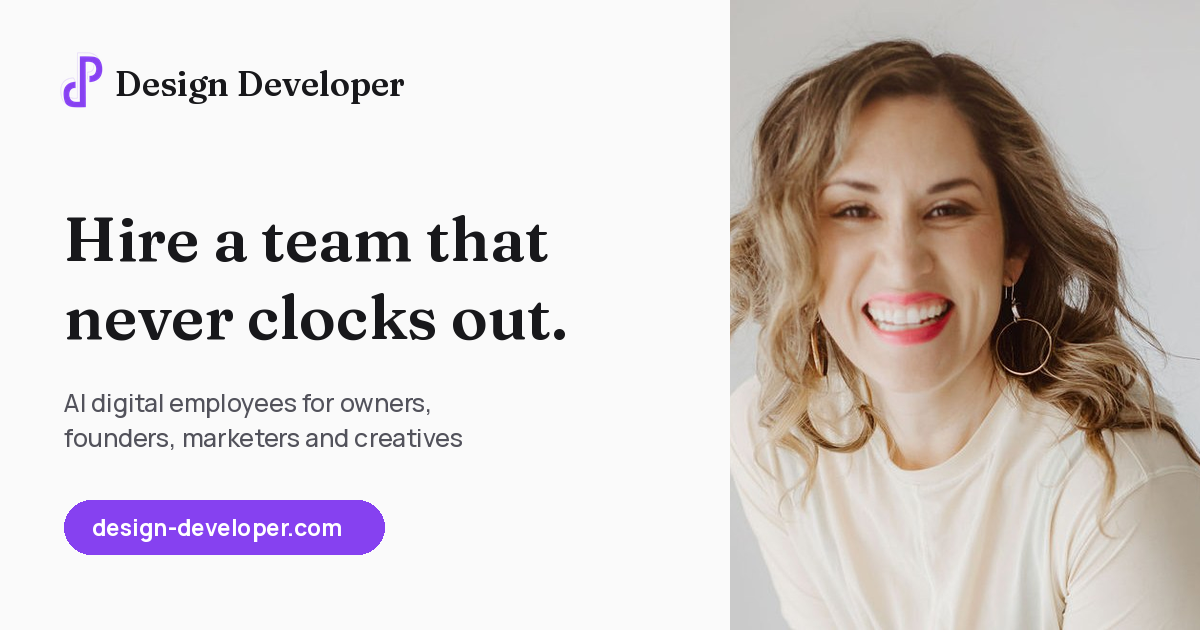
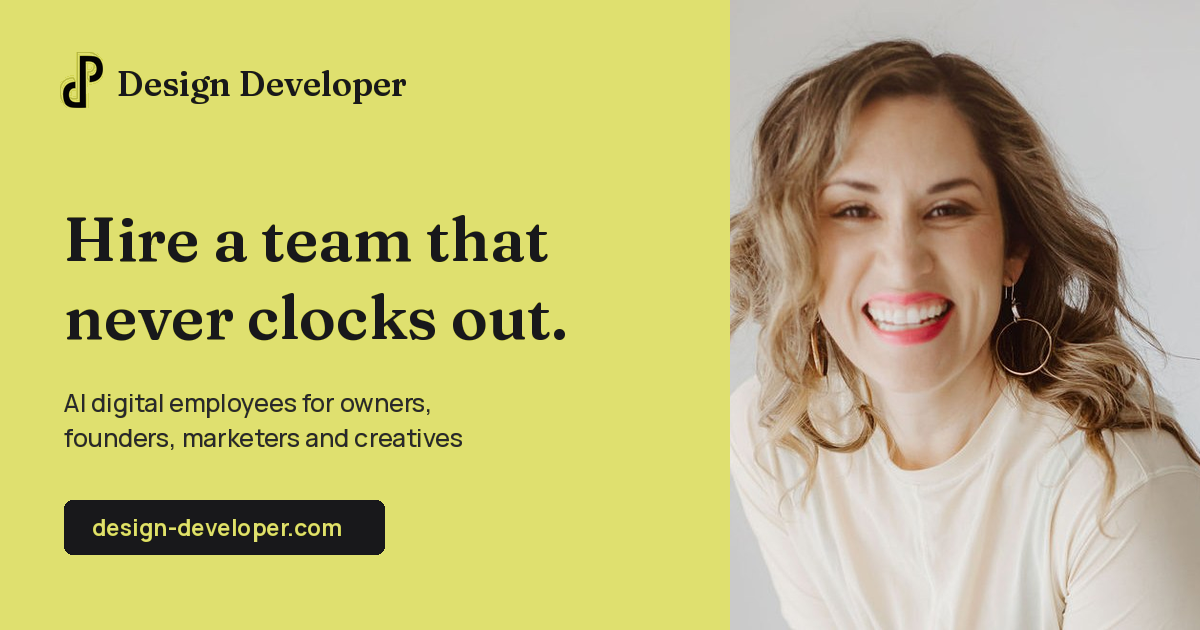
Add files via upload

diff --git a/design-developer/app/partners/page.tsx b/design-developer/app/partners/page.tsx
@@ -1,0 +1,74 @@
+import type { Metadata } from "next";
+
+import { Button } from "@/components/ui/button";
+import { CtaBand } from "@/components/site/cta-band";
+import { PageHeader } from "@/components/site/page-header";
+import { PageShell } from "@/components/site/page-shell";
+import { Container, SectionTitle } from "@/components/site/shared";
+import { pages, partners, site } from "@/lib/content";
+
+const p = pages.partners;
+export const metadata: Metadata = { title: p.title, description: p.description, alternates: { canonical: p.path }, openGraph: { title: p.title, description: p.description, url: p.path } };
+
+const applyHref = `mailto:${site.email}?subject=${encodeURIComponent(partners.applySubject)}&body=${encodeURIComponent(partners.applyBody.replace(/\\n/g, "\n"))}`;
+
+export default function Page() {
+  return (
+    <PageShell>
+      <PageHeader title={partners.title} subtitle={partners.subtitle} />
+
+      <section className="py-14 lg:py-20">
+        <Container>
+          <ol className="grid gap-8 border-t border-border pt-8 md:grid-cols-3 md:gap-10">
+            {partners.terms.map((t, i) => (
+              <li key={t.title}>
+                <span className="font-display text-4xl font-semibold text-accent-ink">{i + 1}</span>
+                <h2 className="display mt-3 text-xl">{t.title}</h2>
+                <p className="mt-2 text-[15px] leading-relaxed text-soft">{t.text}</p>
+              </li>
+            ))}
+          </ol>
+          <Button asChild size="lg" className="mt-10">
+            <a href={applyHref}>Apply to become a partner</a>
+          </Button>
+        </Container>
+      </section>
+
+      <section className="py-14 lg:py-16">
+        <Container>
+          <SectionTitle title="What you could earn" subtitle="Examples based on our published pricing." />
+          <div className="mt-8 overflow-hidden rounded-xl border border-border bg-white">
+            <table className="w-full text-left text-[15px]">
+              <thead>
+                <tr className="border-b border-border">
+                  <th scope="col" className="p-4 font-semibold text-ink">Your referral</th>
+                  <th scope="col" className="hidden p-4 font-semibold text-ink sm:table-cell">They pay</th>
+                  <th scope="col" className="bg-tint p-4 font-semibold text-accent-ink">You earn (15%)</th>
+                </tr>
+              </thead>
+              <tbody>
+                {partners.examples.map((e) => (
+                  <tr key={e.label} className="border-b border-border last:border-0">
+                    <th scope="row" className="p-4 font-medium text-ink">
+                      {e.label}
+                      <span className="mt-1 block text-[14px] font-normal text-soft sm:hidden">{e.detail}</span>
+                    </th>
+                    <td className="hidden p-4 text-body sm:table-cell">{e.detail}</td>
+                    <td className="bg-tint p-4 font-display text-lg font-semibold text-ink">{e.earn}</td>
+                  </tr>
+                ))}
+              </tbody>
+            </table>
+          </div>
+          <ul className="mt-6 max-w-3xl space-y-2 text-[14px] leading-relaxed text-soft">
+            {partners.fine.map((f) => (
+              <li key={f}>· {f}</li>
+            ))}
+          </ul>
+        </Container>
+      </section>
+
+      <CtaBand />
+    </PageShell>
+  );
+}

diff --git a/design-developer/app/globals.css b/design-developer/app/globals.css
@@ -8,13 +8,13 @@
   --foreground: #18181b;
   --card: #ffffff;
   --card-foreground: #18181b;
-  --primary: #8641f0; /* logo violet: white text = 5.2:1 */
-  --primary-hover: #6d28d9;
-  --primary-foreground: #ffffff;
+  --primary: #e6fb81; /* bright neon highlight (Adina: #E6FB81), always with ink text */
+  --primary-hover: #d8f05f;
+  --primary-foreground: #18181b;
   --muted: #f4f4f5;
   --muted-foreground: #52525b;
   --border: #e4e4e7;
-  --ring: #8641f0;
+  --ring: #18181b;
 }
 
 @theme inline {
@@ -36,8 +36,11 @@
   --color-ink: #18181b;
   --color-body: #3f3f46;
   --color-soft: #52525b;
-  --color-brand: #8641f0;
-  --color-tint: #f5f3ff; /* very light violet, for one highlight per section */
+  --color-brand: #18181b;
+  --color-accent-ink: #4a4c00; /* dark olive for small accent text: 9:1 on white, 5.8:1 on neon */
+  --color-neon: #e6fb81;
+  --color-neon-field: #dfe06f; /* section backgrounds (Adina: #DFE06F) */
+  --color-tint: #f4fbd6; /* pale neon, for one highlight per section */
 
   --radius-sm: 2px;
   --radius-md: 6px;
@@ -63,7 +66,7 @@
     @apply text-ink;
   }
   ::selection {
-    background: rgb(134 65 240 / 0.15);
+    background: rgb(230 251 129 / 0.7);
   }
 }
 
@@ -71,16 +74,13 @@
   /* Holographic palette (lavender → pink → peach) */
   /* Flat brand field (lavender), no blurred blobs */
   .bg-holo-soft {
-    background: #f6f1ff;
+    background: #dfe06f;
   }
   .bg-holo-panel {
-    background: linear-gradient(120deg, #efe4ff 0%, #fbe3f1 50%, #ffe8d6 100%);
+    background: #f4fbd6;
   }
   .text-holo {
-    background: linear-gradient(100deg, #7c3aed 0%, #db2777 55%, #ea580c 100%);
-    -webkit-background-clip: text;
-    background-clip: text;
-    color: transparent;
+    color: var(--color-ink);
   }
   .surface {
     @apply rounded-xl border border-border bg-card;
@@ -98,10 +98,10 @@
 .post-body h2 { font-family: var(--font-display); font-size: 1.75rem; line-height: 1.2; font-weight: 500; color: var(--color-ink); margin-top: 2em; }
 .post-body h3 { font-family: var(--font-display); font-size: 1.35rem; font-weight: 600; color: var(--color-ink); margin-top: 1.6em; }
 .post-body strong { color: var(--color-ink); font-weight: 600; }
-.post-body a { color: var(--color-primary); font-weight: 600; text-decoration: underline; text-underline-offset: 3px; }
+.post-body a { color: var(--color-ink); text-decoration-color: var(--color-neon); text-decoration-thickness: 3px; font-weight: 600; text-decoration: underline; text-underline-offset: 3px; }
 .post-body ul { list-style: disc; padding-left: 1.3em; }
 .post-body ol { list-style: decimal; padding-left: 1.3em; }
 .post-body li + li { margin-top: 0.4em; }
-.post-body li::marker { color: var(--color-primary); }
-.post-body blockquote { border-left: 3px solid var(--color-primary); padding-left: 1em; font-family: var(--font-display); font-size: 1.25rem; color: var(--color-ink); }
+.post-body li::marker { color: var(--color-ink); }
+.post-body blockquote { border-left: 4px solid var(--color-neon); padding-left: 1em; font-family: var(--font-display); font-size: 1.25rem; color: var(--color-ink); }
 .post-body img { border-radius: 12px; border: 1px solid var(--color-border); }

diff --git a/design-developer/app/blog/[slug]/page.tsx b/design-developer/app/blog/[slug]/page.tsx
@@ -49,7 +49,7 @@ export default async function PostPage({ params }: { params: Promise<{ slug: str
       <article>
         <header className="bg-holo-soft pb-10 pt-10 sm:pt-14 lg:pb-14 lg:pt-16">
           <Container className="max-w-3xl">
-            <a href="/blog" className="inline-block py-3 text-[15px] font-semibold text-primary hover:underline">
+            <a href="/blog" className="inline-block py-3 text-[15px] font-semibold text-accent-ink hover:underline">
               Blog
             </a>
             <h1 className="display mt-2 text-[2.2rem] leading-[1.08] sm:text-5xl">{post.title}</h1>
@@ -74,7 +74,7 @@ export default async function PostPage({ params }: { params: Promise<{ slug: str
             <ul className="mt-6 space-y-2">
               {others.map((o) => (
                 <li key={o.slug}>
-                  <a href={`/blog/${o.slug}`} className="block py-3 font-display text-xl text-ink hover:text-primary">
+                  <a href={`/blog/${o.slug}`} className="block py-3 font-display text-xl text-ink hover:text-accent-ink">
                     {o.title}
                   </a>
                 </li>

diff --git a/design-developer/app/privacy/page.tsx b/design-developer/app/privacy/page.tsx
@@ -45,10 +45,18 @@ export default function Privacy() {
               </p>
             </section>
             <section>
+              <h2>Referral links</h2>
+              <p>
+                If you arrive through a partner&rsquo;s referral link, your browser stores that partner&rsquo;s code for 90 days
+                so we can credit them if you book a call. It contains no personal information and is passed to our booking
+                calendar only as a referral tag.
+              </p>
+            </section>
+            <section>
               <h2>Your choices</h2>
               <p>
                 You can ask us to see, correct or delete the information we hold about you by emailing{" "}
-                <a href={`mailto:${site.email}`} className="font-medium text-primary hover:underline">
+                <a href={`mailto:${site.email}`} className="font-medium text-accent-ink hover:underline">
                   {site.email}
                 </a>
                 .

diff --git a/design-developer/app/blog/page.tsx b/design-developer/app/blog/page.tsx
@@ -30,9 +30,9 @@ export default function BlogIndex() {
                       {p.readingMinutes} min read
                     </p>
                     <div>
-                      <h2 className="display text-2xl leading-snug group-hover:text-primary sm:text-[1.75rem]">{p.title}</h2>
+                      <h2 className="display text-2xl leading-snug group-hover:text-accent-ink sm:text-[1.75rem]">{p.title}</h2>
                       <p className="mt-2 max-w-2xl text-[16px] leading-relaxed text-soft">{p.description}</p>
-                      <p className="mt-3 text-[15px] font-semibold text-primary">Read the post</p>
+                      <p className="mt-3 text-[15px] font-semibold text-accent-ink">Read the post</p>
                     </div>
                   </a>
                 </li>

diff --git a/design-developer/app/layout.tsx b/design-developer/app/layout.tsx
@@ -5,6 +5,7 @@ import "@fontsource-variable/fraunces";
 import "@fontsource-variable/manrope";
 
 import "./globals.css";
+import { ReferralCapture } from "@/components/site/referral-capture";
 import { seo, site } from "@/lib/content";
 
 export const metadata: Metadata = {
@@ -27,7 +28,10 @@ export const viewport: Viewport = { themeColor: "#fafafa" };
 export default function RootLayout({ children }: { children: React.ReactNode }) {
   return (
     <html lang="en">
-      <body>{children}</body>
+      <body>
+        <ReferralCapture />
+        {children}
+      </body>
     </html>
   );
 }

diff --git a/design-developer/app/not-found.tsx b/design-developer/app/not-found.tsx
@@ -12,7 +12,7 @@ export default function NotFound() {
       <Nav />
       <main>
         <Container className="flex min-h-[60vh] flex-col items-start justify-center py-24">
-          <p className="text-[14px] font-semibold text-primary">404</p>
+          <p className="text-[14px] font-semibold text-accent-ink">404</p>
           <h1 className="display mt-3 text-4xl sm:text-5xl">That page doesn&rsquo;t exist.</h1>
           <p className="mt-4 text-lg text-soft">The link may be old, or the address has a typo.</p>
           <div className="mt-8 flex flex-col gap-3 sm:flex-row">

diff --git a/design-developer/app/sitemap.ts b/design-developer/app/sitemap.ts
@@ -3,7 +3,7 @@ import type { MetadataRoute } from "next";
 import { getAllPosts } from "@/lib/blog";
 
 const base = "https://www.design-developer.com";
-const paths = ["/", "/digital-employees", "/how-it-works", "/pricing", "/results", "/about", "/blog", "/book", "/privacy"];
+const paths = ["/", "/digital-employees", "/how-it-works", "/pricing", "/results", "/about", "/blog", "/partners", "/book", "/privacy"];
 
 export default function sitemap(): MetadataRoute.Sitemap {
   const pages = paths.map((p) => ({ url: `${base}${p}`, lastModified: new Date() }));
